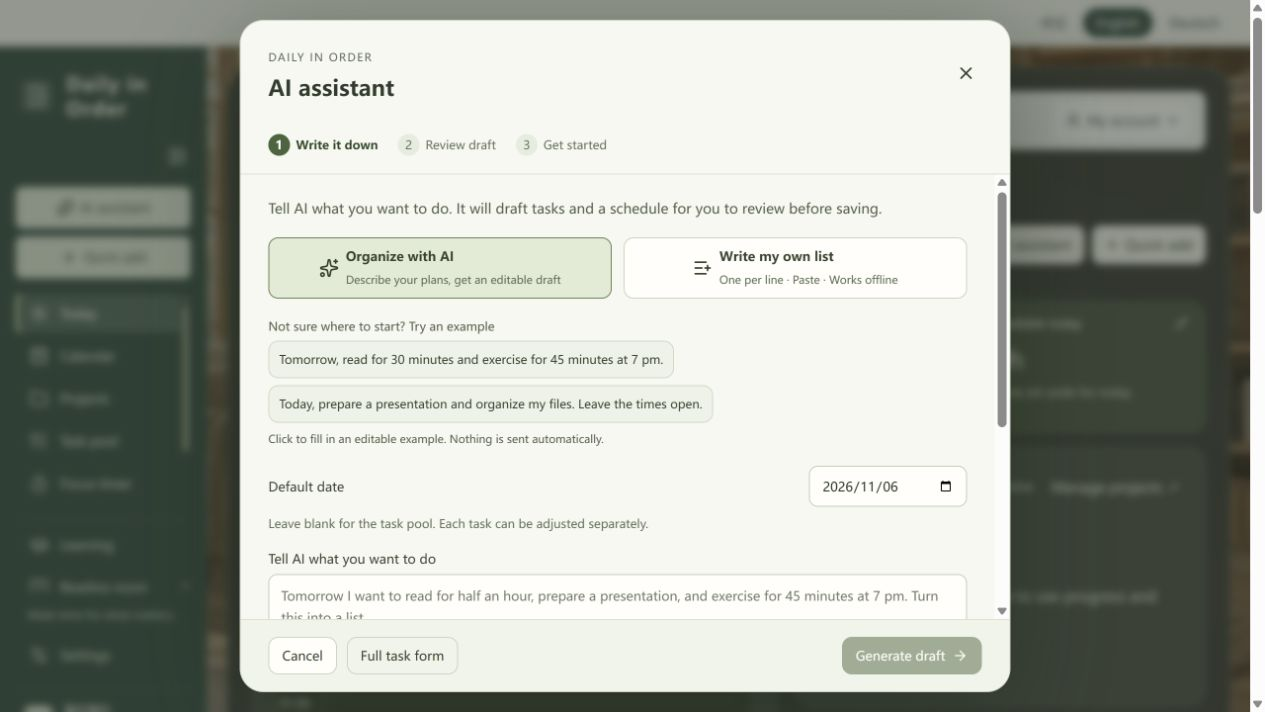
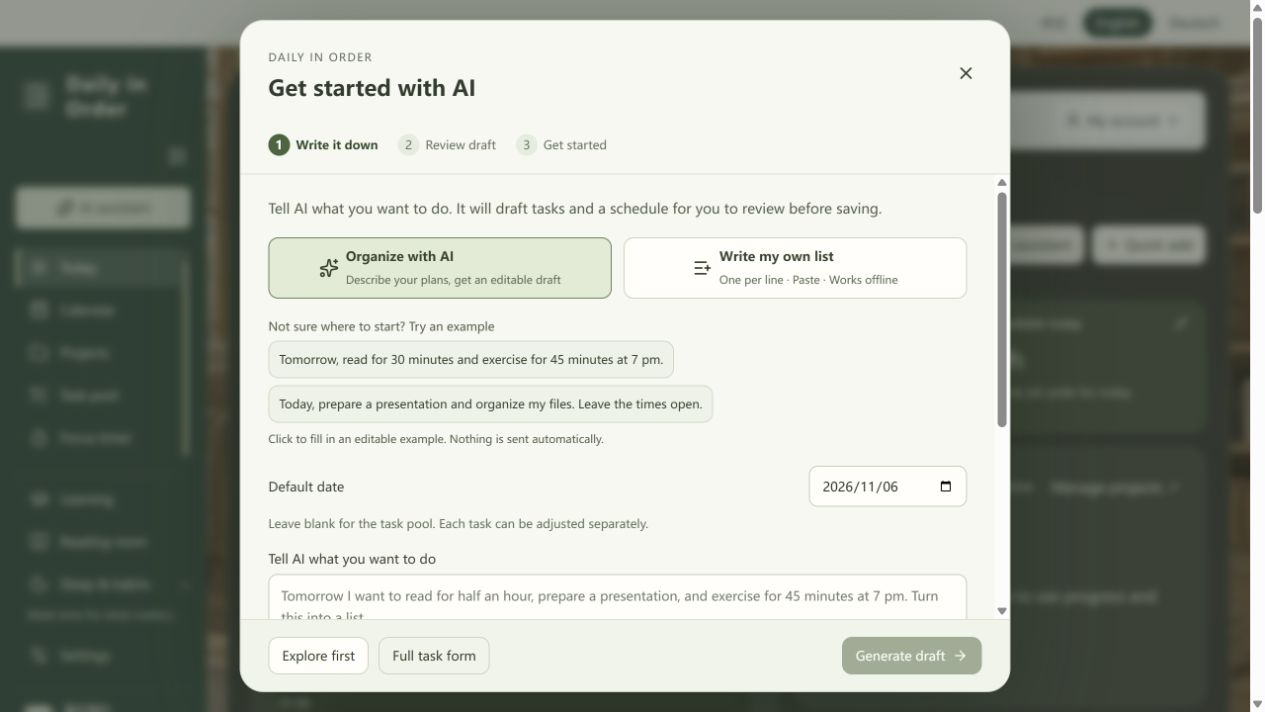
Merge sidebar quick capture into the AI assistant entry

diff --git a/app/workbench.tsx b/app/workbench.tsx
@@ -116,7 +116,7 @@ export function WorkbenchContent({offline}:{offline:ReturnType<typeof useWorkspa
 
  function Export(){return <><Head title={ui("数据与导出")} subtitle={ui("每一份投入，都可以带走。")}/><div className="export-grid"><section className="panel"><span className="export-icon"><Archive/></span><h2>{ui("完整备份")}</h2><p>{ui("保存项目、任务、重复规则、随记、偏好与专注记录。恢复会替换当前全部工作台数据。")}</p><button className="primary" onClick={()=>download(`工作台备份-${today}.json`,JSON.stringify(s,null,2),'application/json')}>{ui("下载 JSON 备份")}</button></section><section className="panel"><span className="export-icon"><ListTodo/></span><h2>{ui("事项表格")}</h2><p>{ui("导出全部未删除事项，包含项目、时间、进度和实际用时，可在 Excel 中查看。")}</p><button onClick={()=>download(`事项-${today}.csv`,csvExport(s,tasks),'text/csv;charset=utf-8')}>{ui("导出 CSV")}</button></section><section className="panel"><span className="export-icon"><CalendarDays/></span><h2>{ui("日历文件")}</h2><p>{ui("导出已安排事项，可导入系统日历。重复任务展开为已经生成的独立日程。")}</p><button onClick={()=>download(`日程-${today}.ics`,icsExport(s,tasks),'text/calendar;charset=utf-8')}>{ui("导出 ICS")}</button></section><section className="panel"><span className="export-icon"><Upload/></span><h2>{ui("导入数据")}</h2><p>{ui("导入 ICS 课表、事项 CSV，或恢复本工作台的 JSON 备份。确认前会展示导入预览。")}</p><button onClick={()=>setImportOpen(true)}>{ui("选择文件并预览")}</button></section></div><section className="panel"><h3>{ui("每日回顾")}</h3><div className="row wrap"><DateNav date={date} setDate={setDate} today={today}/><button onClick={()=>setShare('today')}>{ui("生成当日分享卡")}</button><button onClick={()=>window.print()}>{ui("打印当前页面 / 保存 PDF")}</button></div><p className="hint">{ui("数据库会在每次操作后保存。建议定期下载完整备份；CSV 和 ICS 用于交换数据，不包含全部工作台信息。")}</p></section></>;}
  const nav=[{id:'today',label:ui("今日概览"),icon:Sun},{id:'calendar',label:ui("日历安排"),icon:CalendarDays},{id:'projects',label:ui("项目池"),icon:Folder},{id:'tasks',label:ui("任务池"),icon:ListTodo},{id:'focus',label:ui("专注计时"),icon:Timer},{id:'german',label:ui("学习"),icon:Languages},{id:'reading',label:ui("阅读书房"),icon:BookOpen},{id:'habits',label:ui("作息与习惯"),icon:Moon},{id:'fitness',label:ui("健身记录"),icon:Activity},{id:'finance',label:ui("财务与预算"),icon:Wallet},{id:'stats',label:ui("数据复盘"),icon:ChartNoAxesCombined},{id:'export',label:ui("数据与导出"),icon:Download}] as const;
- return <ErrorContext.Provider value={ui(error)}>{(quickOpen||s.onboarding==='pending')&&!guideOpen&&<QuickCapture initialMode={quickMode} state={s} date={date} firstLogin={s.onboarding==='pending'} mutate={mutate} busy={busy} error={ui(error)} onClose={()=>setQuickOpen(false)} onGoals={()=>{setQuickOpen(false);setGuideOpen(true);}} onForm={()=>{setQuickOpen(false);newTask({date});}}/>}{guideOpen&&<WelcomeGuide key="reopen" state={s} mutate={mutate} busy={busy} error={ui(error)} onClose={guideOpen?()=>setGuideOpen(false):undefined} onComplete={startUsage}/>}<div className={cn('app-shell','view-'+view,collapsed&&'collapsed',s.settings.reducedMotion&&'reduced-motion')}><aside className="sidebar"><div className="brand"><BrandMark className="brand-mark"/><div><strong>{ui("日常有序")}</strong><small>DAILY IN ORDER</small></div></div><button className="collapse-btn" aria-label={collapsed?ui("展开侧栏"):ui("收起侧栏")} onClick={()=>setCollapsed(v=>!v)}>{collapsed?<PanelLeftOpen size={18}/>:<PanelLeftClose size={18}/>}</button><button className="new-task assistant-entry" title={ui("AI 助手")} onClick={()=>openQuick('ai')}><Sparkles size={18}/><span>{ui("AI 助手")}</span></button><button className="new-task manual-entry" title={ui("快速添加")} onClick={()=>openQuick('list')}><Plus size={18}/><span>{ui("快速添加")}</span></button><nav>{nav.filter(n=>!['german','reading','habits','fitness','finance'].includes(n.id)||visibleModules.includes(n.id as LifeView)).map(n=><button key={n.id} title={ui(n.label)} aria-current={view===n.id?'page':undefined} onClick={()=>navigate(n.id)}><n.icon size={19}/><span>{ui(n.label)}</span>{n.id==='tasks'&&loose.length>0&&<small>{loose.length}</small>}</button>)}</nav><div className="sidebar-bottom"><p>{ui("为在意的事，留出时间。")}</p><button aria-current={view==='settings'?'page':undefined} title={ui("设置")} onClick={()=>navigate('settings')}><Settings2 size={19}/><span>{ui("设置")}</span></button><div className="profile"><span>{s.settings.name.slice(0,1)}</span><div><strong>{s.settings.name}</strong><small>{ui("我的独立工作台")}</small></div></div></div></aside><main className="main"><AppStatus workspace={offline}/>{error&&<div className="error-banner" role="alert"><AlertCircle size={18}/><span>{ui(error)}</span><button aria-label={ui("关闭错误提示")} onClick={()=>setError('')}><X size={16}/></button></div>}<FocusPanel error={ui(error)} state={s} busy={busy} mutate={mutate} expanded={focusExpanded} expand={()=>setFocusExpanded(true)} minimize={()=>setFocusExpanded(false)}/>{usage&&<UsageGuide state={s} guide={usage} change={setUsage} close={()=>setUsage(null)} busy={busy} createProject={()=>{navigate('projects');setEditingProject(null);}} createTask={id=>{setProjectId(id);setView('projects');newTask({projectId:id,date:'',start:''});}} schedule={t=>{openDay(t.date||today);editTask(t);setDraft(v=>v?{...v,task:{...v.task,date:t.date||today,minutes:t.minutes||30}}:v);}} openTimeline={t=>openDay(t.date||today)} openProject={id=>{setView('projects');setProjectId(id);}} complete={complete} openStats={()=>navigate('stats')} openFeedback={()=>{navigate('settings');setSettingsTab('问题反馈');}}/>}{view==='today'?Today():view==='calendar'?Calendar():view==='projects'?Projects():view==='tasks'?Tasks():view==='stats'?Stats():view==='settings'?Settings():view==='export'?Export():['german','reading','habits','fitness','finance'].includes(view)?<LifePage key={view} view={view as LifeView} state={s} mutate={mutate} busy={busy} error={ui(error)} plan={newTask} openDay={openDay} focus={()=>navigate('focus')}/>:<><Head title={ui("一段专注，一点积累")} subtitle={ui("把注意力，留给值得的事。")}/>{timerPanel()}<section className="panel"><h3>{ui("专注记录")}</h3>{s.sessions.filter(x=>!x.deletedAt).slice().reverse().slice(0,50).map(x=><div className="data-row" key={x.id}><span>{s.tasks.find(t=>t.id===x.taskId)?.title||ui("已删除事项")}<small>{x.date} · {Math.round(x.seconds/60)} {ui("分钟")}</small></span><b>{x.growth.toFixed(2)} {ui("潜在财富")}</b></div>)}{!s.sessions.length&&<Empty>{ui("完成一段专注后，这里会留下记录。")}</Empty>}</section></>}<footer className="page-footer">{ui("日常有序 · 按自己的节奏")}<span>{ui("计划有位置，进展看得见。")}</span></footer></main>{notice&&<div role="status" className="toast"><CloudCheck size={18}/>{ui(notice)}</div>}{error&&(draft||editingProject!==undefined||completion||importOpen)&&<div role="alert" className="modal-error">{ui(error)}</div>}
+ return <ErrorContext.Provider value={ui(error)}>{(quickOpen||s.onboarding==='pending')&&!guideOpen&&<QuickCapture initialMode={quickMode} state={s} date={date} firstLogin={s.onboarding==='pending'} mutate={mutate} busy={busy} error={ui(error)} onClose={()=>setQuickOpen(false)} onGoals={()=>{setQuickOpen(false);setGuideOpen(true);}} onForm={()=>{setQuickOpen(false);newTask({date});}}/>}{guideOpen&&<WelcomeGuide key="reopen" state={s} mutate={mutate} busy={busy} error={ui(error)} onClose={guideOpen?()=>setGuideOpen(false):undefined} onComplete={startUsage}/>}<div className={cn('app-shell','view-'+view,collapsed&&'collapsed',s.settings.reducedMotion&&'reduced-motion')}><aside className="sidebar"><div className="brand"><BrandMark className="brand-mark"/><div><strong>{ui("日常有序")}</strong><small>DAILY IN ORDER</small></div></div><button className="collapse-btn" aria-label={collapsed?ui("展开侧栏"):ui("收起侧栏")} onClick={()=>setCollapsed(v=>!v)}>{collapsed?<PanelLeftOpen size={18}/>:<PanelLeftClose size={18}/>}</button><button className="new-task assistant-entry" title={ui("AI 助手")} onClick={()=>openQuick('ai')}><Sparkles size={18}/><span>{ui("AI 助手")}</span></button><nav>{nav.filter(n=>!['german','reading','habits','fitness','finance'].includes(n.id)||visibleModules.includes(n.id as LifeView)).map(n=><button key={n.id} title={ui(n.label)} aria-current={view===n.id?'page':undefined} onClick={()=>navigate(n.id)}><n.icon size={19}/><span>{ui(n.label)}</span>{n.id==='tasks'&&loose.length>0&&<small>{loose.length}</small>}</button>)}</nav><div className="sidebar-bottom"><p>{ui("为在意的事，留出时间。")}</p><button aria-current={view==='settings'?'page':undefined} title={ui("设置")} onClick={()=>navigate('settings')}><Settings2 size={19}/><span>{ui("设置")}</span></button><div className="profile"><span>{s.settings.name.slice(0,1)}</span><div><strong>{s.settings.name}</strong><small>{ui("我的独立工作台")}</small></div></div></div></aside><main className="main"><AppStatus workspace={offline}/>{error&&<div className="error-banner" role="alert"><AlertCircle size={18}/><span>{ui(error)}</span><button aria-label={ui("关闭错误提示")} onClick={()=>setError('')}><X size={16}/></button></div>}<FocusPanel error={ui(error)} state={s} busy={busy} mutate={mutate} expanded={focusExpanded} expand={()=>setFocusExpanded(true)} minimize={()=>setFocusExpanded(false)}/>{usage&&<UsageGuide state={s} guide={usage} change={setUsage} close={()=>setUsage(null)} busy={busy} createProject={()=>{navigate('projects');setEditingProject(null);}} createTask={id=>{setProjectId(id);setView('projects');newTask({projectId:id,date:'',start:''});}} schedule={t=>{openDay(t.date||today);editTask(t);setDraft(v=>v?{...v,task:{...v.task,date:t.date||today,minutes:t.minutes||30}}:v);}} openTimeline={t=>openDay(t.date||today)} openProject={id=>{setView('projects');setProjectId(id);}} complete={complete} openStats={()=>navigate('stats')} openFeedback={()=>{navigate('settings');setSettingsTab('问题反馈');}}/>}{view==='today'?Today():view==='calendar'?Calendar():view==='projects'?Projects():view==='tasks'?Tasks():view==='stats'?Stats():view==='settings'?Settings():view==='export'?Export():['german','reading','habits','fitness','finance'].includes(view)?<LifePage key={view} view={view as LifeView} state={s} mutate={mutate} busy={busy} error={ui(error)} plan={newTask} openDay={openDay} focus={()=>navigate('focus')}/>:<><Head title={ui("一段专注，一点积累")} subtitle={ui("把注意力，留给值得的事。")}/>{timerPanel()}<section className="panel"><h3>{ui("专注记录")}</h3>{s.sessions.filter(x=>!x.deletedAt).slice().reverse().slice(0,50).map(x=><div className="data-row" key={x.id}><span>{s.tasks.find(t=>t.id===x.taskId)?.title||ui("已删除事项")}<small>{x.date} · {Math.round(x.seconds/60)} {ui("分钟")}</small></span><b>{x.growth.toFixed(2)} {ui("潜在财富")}</b></div>)}{!s.sessions.length&&<Empty>{ui("完成一段专注后，这里会留下记录。")}</Empty>}</section></>}<footer className="page-footer">{ui("日常有序 · 按自己的节奏")}<span>{ui("计划有位置，进展看得见。")}</span></footer></main>{notice&&<div role="status" className="toast"><CloudCheck size={18}/>{ui(notice)}</div>}{error&&(draft||editingProject!==undefined||completion||importOpen)&&<div role="alert" className="modal-error">{ui(error)}</div>}
  {focusTask&&!s.focus&&<FocusSetup error={ui(error)} key={focusTask.id} task={focusTask} defaultMinutes={s.settings.focusMinutes} busy={busy} close={()=>setFocusTask(null)} start={async(mode,minutes)=>{if(await mutate({type:'focus.start',payload:{taskId:focusTask.id,mode,minutes}})){setFocusTask(null);setFocusExpanded(true);}}}/>}
  {recording&&s.tasks.find(t=>t.id===recording)&&<TaskRecord initialSessionId={recordingSession} key={recording} task={s.tasks.find(t=>t.id===recording)!} state={s} busy={busy} mutate={mutate} error={ui(error)} close={()=>{setRecording(null);setRecordingSession(undefined);}} edit={()=>{const t=s.tasks.find(t=>t.id===recording)!;setRecording(null);setRecordingSession(undefined);editTask(t);}} focus={()=>{const t=s.tasks.find(t=>t.id===recording)!;setRecording(null);setRecordingSession(undefined);startFocus(t);}}/>}
  {draft&&<TaskEditor guideHint={usage?(usage.step===2?ui("操作引导：填写安排日期、开始时间和预计用时，然后保存。实际用时不用现在填写。"):ui("操作引导：写一个具体任务标题和预计用时。所属项目已带入，日期可以先留空。保存后继续下一步。")):undefined} key={draft.id} draft={draft} state={s} busy={busy} close={()=>setDraft(null)} save={async d=>{if(await mutate({type:'task.save',payload:{id:d.id,task:d.task,repeat:d.repeat,scope:d.scope}},ui("事项已保存，项目与日程已同步。"))){setDraft(null);if(usage?.awaiting==='task'&&!d.existing)setUsage(g=>g?{...g,taskId:d.id,awaiting:null}:g);}}} remove={scope=>{if(confirm(scope==='one'?ui("将此事项移到回收站？"):ui("将所选范围内未完成的重复事项移到回收站，并停止对应重复？")))void mutate({type:'task.delete',payload:{id:draft.id,scope}},ui("已移到回收站。")).then(ok=>{if(ok)setDraft(null);});}} template={task=>void mutate({type:'template.save',payload:{id:uid(),task}},ui("已存为常驻模板，可在任务池重复使用。"))}/>}

diff --git a/app/quick-capture.css b/app/quick-capture.css
@@ -8,6 +8,6 @@
 .quick-row{border:1px solid #d8dfcd;background:#f0f3e9;padding:14px;border-radius:12px;margin-bottom:12px}.quick-row.unselected{background:#f6f7f1}.quick-row-title{display:flex;align-items:center;gap:10px}.quick-row-title label{flex:1}.quick-row-title label>span{font-size:10px;color:#69755c}.quick-fields{display:grid;grid-template-columns:1fr 1fr 1.35fr;gap:12px;margin:12px 0 0 28px}.quick-fields .duration-input{padding:0;margin:0;border:0;min-width:0}.quick-fields .duration-input legend{font-size:13px;margin-bottom:7px;padding:0;color:#35402e}.quick-fields .duration-parts{gap:6px}.quick-fields .duration-parts label{position:relative}.quick-fields .duration-parts input{padding-right:30px}.quick-fields .duration-parts span{color:#5b684e;font-size:10px}.quick-duplicate{display:block;color:#805523;margin:6px 0 0 28px;font-size:12px}.quick-model-note{padding:12px;background:#e8eddd;color:#495a39;border-radius:9px;white-space:pre-wrap;line-height:1.6;font-size:13px}.quick-revision summary{cursor:pointer;font-size:13px;padding:8px 0}.quick-revision small{display:block;margin-top:8px;color:#68735e;font-size:11px}.quick-revision button{margin-top:10px}.quick-capture .quick-error{background:#f7e4dc;color:#842e20;padding:12px;border-radius:9px;font-size:13px;line-height:1.6}.quick-success{text-align:center;padding:12px 20px}.quick-success-icon{display:inline-grid;place-items:center;width:64px;height:64px;background:#e3ecd6;color:#476234;border-radius:50%}.quick-success p{font-size:14px;line-height:1.8;color:#536448}.quick-success .quick-success-tip{font-size:12px;border-top:1px solid #dce1d2;padding-top:20px;margin-top:24px}
 @media(max-width:620px){.modal.quick-capture{max-height:calc(100dvh - 16px);width:calc(100vw - 16px);border-radius:17px}.quick-capture .quick-head{padding:18px 16px 12px}.quick-head h2{font-size:21px}.quick-capture .quick-steps{padding:0 16px 14px;gap:12px;font-size:11px}.quick-body{padding:18px 16px}.quick-capture .quick-footer{padding:12px 16px;flex-wrap:wrap}.quick-capture .quick-modes{gap:8px}.quick-modes button{padding:12px 9px;gap:6px}.quick-modes button>svg{display:none}.quick-fields{grid-template-columns:1fr 1fr;margin-left:0}.quick-fields .duration-input{grid-column:1/-1}.quick-capture .quick-date{grid-template-columns:1fr 150px}.quick-hint{flex-direction:column;gap:2px}.quick-capture .quick-secondary{order:3;width:100%}}
 
-/* The assistant stays visible alongside manual entry, including collapsed navigation. */
-.sidebar .assistant-entry{margin-bottom:8px}.sidebar .manual-entry{background:transparent;border:1px solid #9aaa85;color:inherit;margin-bottom:16px}
+/* One sidebar entry opens both AI and manual capture modes. */
+.sidebar .assistant-entry{margin-bottom:20px}
 .quick-examples{display:flex;flex-wrap:wrap;gap:7px;margin:0 0 18px}.quick-examples>span,.quick-examples>small{flex-basis:100%;font-size:12px;color:#56624d}.quick-capture .quick-examples button{font-size:12px;text-align:left;justify-content:flex-start;background:#eef2e7;border-color:#d1d9c7;padding:8px 10px}.quick-examples>small{font-size:11px}

diff --git a/README.en.md b/README.en.md
@@ -63,7 +63,7 @@ Chinese UI with illustrative test entries. The nutrition figures are not dietary
 | Review and backup | Review time trends, back up/restore full JSON state, and import/export task CSV and calendar ICS files |
 | Onboarding and feedback | Choose modules, set goals, follow a usage walkthrough, submit feedback and see its status |
 
-**Preview v0.7.1: write a list → review the draft → get started.** After registration and email verification, new users see **Get started with AI**, with editable examples, manual list entry and skip. A dedicated **AI assistant** in the sidebar and Today opens AI directly on later visits; **Quick add** still opens manual entry. Examples only fill the input and are never sent automatically. Paste one task per line, select and edit dates and hours/minutes, then add the batch. Dates and start times are optional; undated tasks go to the task pool. Undo is available after adding, but refuses batches containing tasks that were edited or started to protect progress. Set up modules, goals and projects later.
+**Preview v0.7.1: write a list → review the draft → get started.** After registration and email verification, new users see **Get started with AI**, with editable examples, manual list entry and skip. The sidebar has a single **AI assistant** entry, with AI and **Write my own list** available inside. Today keeps both AI assistant and **Quick add** for direct manual entry. Examples only fill the input and are never sent automatically. Paste one task per line, select and edit dates and hours/minutes, then add the batch. Dates and start times are optional; undated tasks go to the task pool. Undo is available after adding, but refuses batches containing tasks that were edited or started to protect progress. Set up modules, goals and projects later.
 
 Optional **Organize with AI** uses Firebase AI Logic / Gemini Developer API to create an editable draft from natural language, with follow-up revisions. Only the current input and selected draft are sent after consent, not existing workspace records. AI cannot save tasks or invent actual work. Repeating rules are not created in this first version; review the draft. List entry works offline; AI requires a connection. These changes are preview-first; production may still run the previous release.
 

diff --git a/README.md b/README.md
@@ -61,7 +61,7 @@
 | 数据复盘与备份 | 查看投入趋势；完整 JSON 备份与恢复、任务 CSV、日历 ICS 导入导出 |
 | 新手引导与反馈 | 选择需要的模块、设置目标、逐步学习操作；提交反馈并查看处理情况 |
 
-**预览版 v0.7.1：先写清单 → 检查草稿 → 开始行动**。新账号注册并完成邮箱验证、进入工作台后，自动看到「AI 帮我开始」，提供可修改的示例，也能自己写清单或跳过。之后可从侧栏或今日概览的独立「AI 助手」入口直接使用 AI；「快速添加」仍直接打开手动清单。点击示例只填入文字，不会自动发送。每行一个事项，支持粘贴、勾选、修改日期与小时/分钟，再一次加入。开始时间和日期均可留空；不设置日期的事项进入任务池。保存后可撤销本批次；若已经修改或开始专注，会阻止整批撤销以保护进展。模块、目标和项目可稍后设置。
+**预览版 v0.7.1：先写清单 → 检查草稿 → 开始行动**。新账号注册并完成邮箱验证、进入工作台后，自动看到「AI 帮我开始」，提供可修改的示例，也能自己写清单或跳过。侧栏仅保留「AI 助手」，打开后可选择 AI 整理或「自己写清单」。今日概览仍保留 AI 助手和直接打开手动清单的「快速添加」。点击示例只填入文字，不会自动发送。每行一个事项，支持粘贴、勾选、修改日期与小时/分钟，再一次加入。开始时间和日期均可留空；不设置日期的事项进入任务池。保存后可撤销本批次；若已经修改或开始专注，会阻止整批撤销以保护进展。模块、目标和项目可稍后设置。
 
 可选「AI 帮我整理」通过 Firebase AI Logic / Gemini Developer API 把自然语言整理成可编辑草稿，也可继续描述修改。只有同意后才发送本次输入和选中草稿，不自动读取原有工作台记录；AI 不直接保存，不生成实际投入。重复规则第一版不自动创建，需自行核对草稿。清单录入可离线，AI 需要联网。该功能先在预览验收，在线正式版以已发布版本为准。
 
